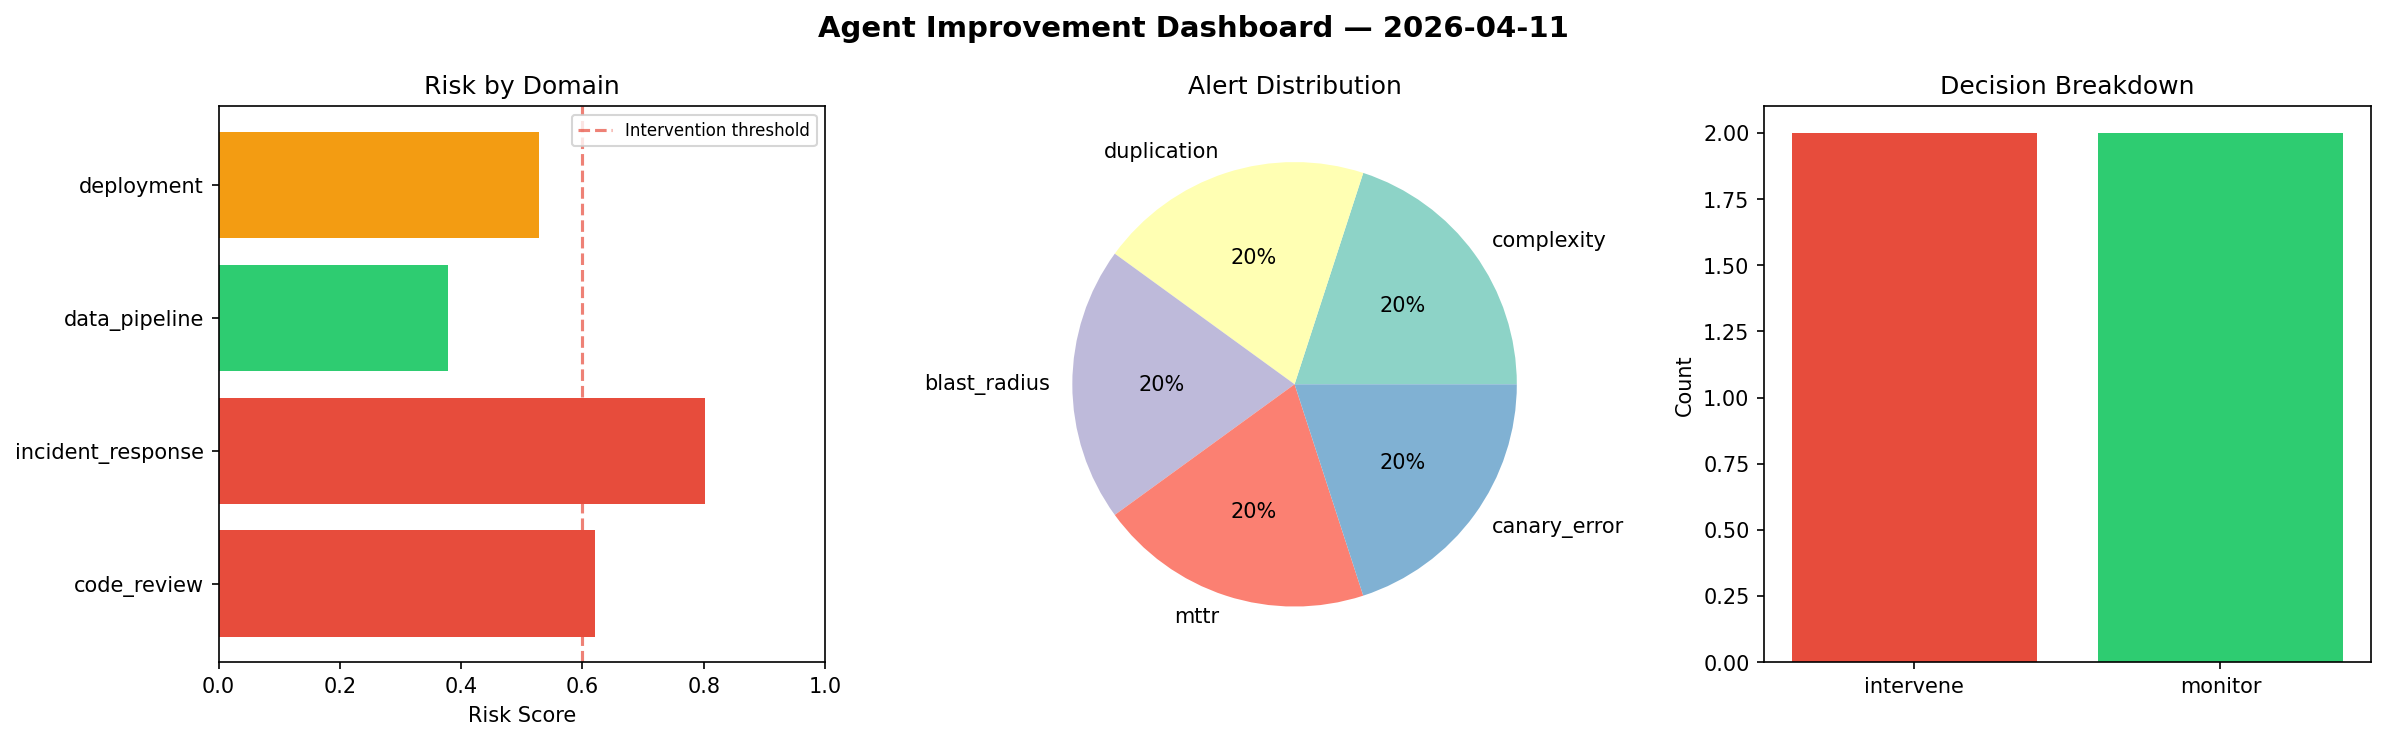
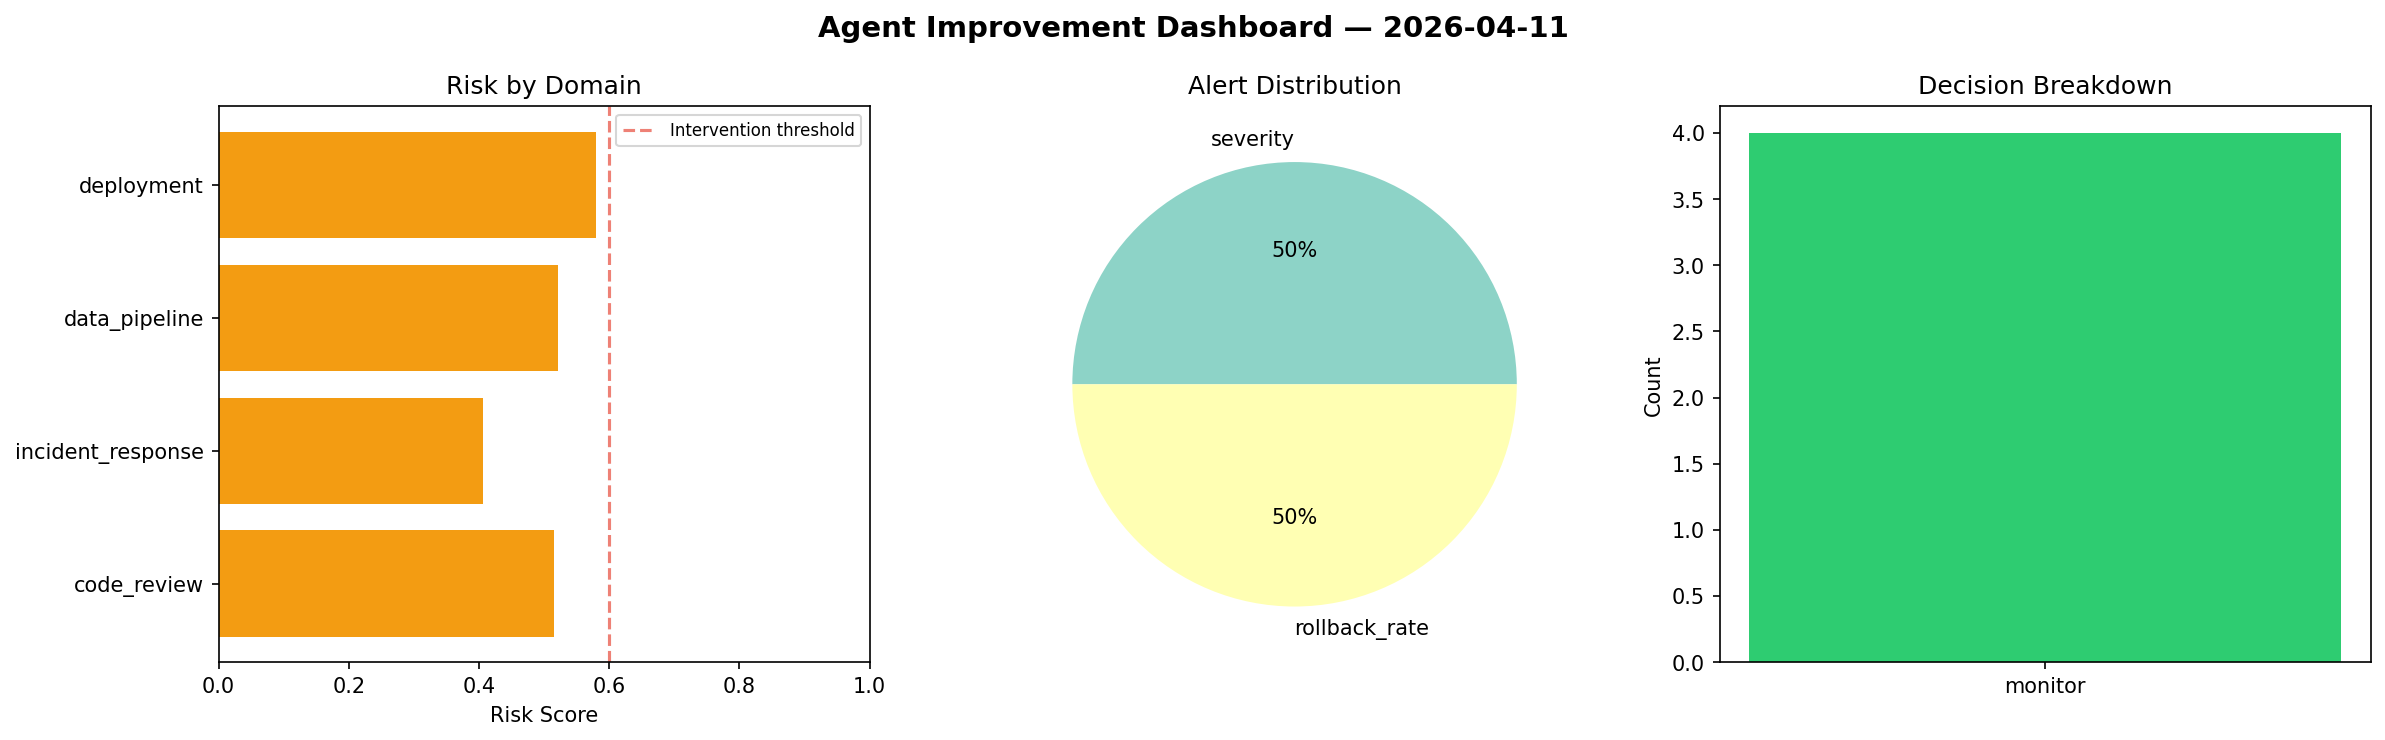
agent-improvement: daily cycle 2026-04-11T09:01

diff --git a/logs/2026-04-11.md b/logs/2026-04-11.md
@@ -1,6 +1,6 @@
 # Agent Improvement Report — 2026-04-11
 
-**Cycle ID:** `18f93f1b` | **Avg Risk:** 0.5825 | **Interventions:** 2/4
+**Cycle ID:** `bedb9998` | **Avg Risk:** 0.5054 | **Interventions:** 0/4
 
 ![Dashboard](2026-04-11_dashboard.png)
 
@@ -10,18 +10,18 @@
 
 | Domain | Risk Score | Decision | Alerts |
 |--------|-----------|----------|--------|
-| code_review | 0.6206 | intervene | complexity, duplication |
-| incident_response | 0.8027 | intervene | blast_radius, mttr |
-| data_pipeline | 0.3779 | monitor | none |
-| deployment | 0.5287 | monitor | canary_error |
+| code_review | 0.5147 | monitor | none |
+| incident_response | 0.4062 | monitor | severity |
+| data_pipeline | 0.5206 | monitor | none |
+| deployment | 0.58 | monitor | rollback_rate |
 
 ## Delta vs Yesterday
 
 | Domain | Today | Yesterday | Change |
 |--------|-------|-----------|--------|
-| code_review | 0.6206 | 0.8178 | 📉 -24.1% |
-| incident_response | 0.8027 | 0.4451 | 📈 80.3% |
-| data_pipeline | 0.3779 | 0.1627 | 📈 132.3% |
-| deployment | 0.5287 | 0.5788 | 📉 -8.7% |
+| code_review | 0.5147 | 0.8178 | 📉 -37.1% |
+| incident_response | 0.4062 | 0.4451 | 📉 -8.7% |
+| data_pipeline | 0.5206 | 0.1627 | 📈 220.0% |
+| deployment | 0.58 | 0.5788 | 📈 0.2% |
 
-**Refinement:** `{'adjustment': 'maintain', 'trend': 'improving', 'window': 4}`
+**Refinement:** `{'adjustment': 'tighten_thresholds', 'trend': 'degrading', 'window': 4}`
